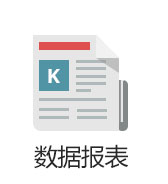
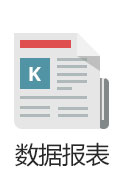
首页

diff --git a/www/template/home.html b/www/template/home.html
@@ -7,19 +7,74 @@
     </div>
 
     <div class="content">
-      <ul>
-        <a href="">
-          <li class="icon fengxian"></li>
+      <li class="icon" ng-if="categorys[1].unread_count>0">
+        <i>{{categorys[1].unread_count}}</i>
+        <a href="#subCategory/{{categorys[1].catid}}" ng-if="categorys[1].sub!=undefined">
+          <img src="../img/fengxian_count.jpg">
         </a>
-        <a href="">
-          <li class="icon shuju"></li>
+        <a href="#list/{{categorys[1].catid}}" ng-if="categorys[1].sub==undefined">
+          <img src="../img/fengxian_count.jpg">
         </a>
-        <a href="">
-          <li class="icon yuqing"></li>
+      </li>
+      <li class="icon" ng-if="categorys[1].unread_count<=0">
+        <a href="#subCategory/{{categorys[1].catid}}" ng-if="categorys[1].sub!=undefined">
+          <img src="../img/fengxian.jpg">
         </a>
-        <a href="">
-          <li class="icon qita"></li>
+        <a href="#list/{{categorys[1].catid}}" ng-if="categorys[1].sub==undefined">
+          <img src="../img/fengxian.jpg">
         </a>
+      </li>
+      <li class="icon" ng-if="categorys[11].unread_count>0">
+        <i>{{categorys[11].unread_count}}</i>
+        <a href="#subCategory/{{categorys[11].catid}}" ng-if="categorys[11].sub!=undefined">
+          <img src="../img/shuju_count.jpg">
+        </a>
+        <a href="#subCategory/{{categorys[11].catid}}" ng-if="categorys[11].sub==undefined">
+          <img src="../img/shuju_count.jpg">
+        </a>
+      </li>
+      <li class="icon" ng-if="categorys[11].unread_count<=0">
+        <a href="#subCategory/{{categorys[11].catid}}" ng-if="categorys[11].sub!=undefined">
+          <img src="../img/shuju.jpg">
+        </a>
+        <a href="#subCategory/{{categorys[11].catid}}" ng-if="categorys[11].sub==undefined">
+          <img src="../img/shuju.jpg">
+        </a>
+      </li>
+      <li class="icon" ng-if="categorys[2].unread_count>0">
+        <i>{{categorys[2].unread_count}}</i>
+        <a href="#subCategory/{{categorys[2].catid}}" ng-if="categorys[2].sub==undefined">
+          <img src="../img/yuqing_count.jpg">
+        </a>
+        <a href="#subCategory/{{categorys[2].catid}}" ng-if="categorys[2].sub!=undefined">
+          <img src="../img/yuqing_count.jpg">
+        </a>
+      </li>
+      <li class="icon" ng-if="categorys[2].unread_count<=0">
+        <a href="#subCategory/{{categorys[2].catid}}" ng-if="categorys[2].sub==undefined">
+          <img src="../img/yuqing.jpg">
+        </a>
+        <a href="#subCategory/{{categorys[2].catid}}" ng-if="categorys[2].sub!=undefined">
+          <img src="../img/yuqing.jpg">
+        </a>
+      </li>
+      <li class="icon" ng-if="categorys[3].unread_count>0">
+        <i>{{categorys[3].unread_count}}</i>
+        <a href="#subCategory/{{categorys[3].catid}}" ng-if="categorys[3].sub==undefined">
+          <img src="../img/qita_count.jpg">
+        </a>
+        <a href="#subCategory/{{categorys[3].catid}}" ng-if="categorys[3].sub!=undefined">
+          <img src="../img/qita_count.jpg">
+        </a>
+      </li>
+      <li class="icon" ng-if="categorys[3].unread_count<=0">
+        <a href="#subCategory/{{categorys[3].catid}}" ng-if="categorys[3].sub==undefined">
+          <img src="../img/qita.jpg">
+        </a>
+        <a href="#subCategory/{{categorys[3].catid}}" ng-if="categorys[3].sub!=undefined">
+          <img src="../img/qita_count.jpg">
+        </a>
+      </li>
       </ul>
     </div>
   </ion-content>

diff --git a/www/js/services.js b/www/js/services.js
@@ -17,74 +17,14 @@ url_users_user = function(id){
   return url_users + "/"+id;
 }
 
-url_users_user_contacts =  function(id){
-  return url_users_user(id) + "/contacts";
-}
-
-url_users_user_jobs = function(id){
-  return url_users_user(id) + "/jobs";
-}
-url_users_user_edus = function(id){
-  return url_users_user(id) + "/edus";
-}
-
-url_users_user_stat = function(id){
-  return url_users_user(id)+"/stat";
-}
-url_users_user_checkEmail = function(id,email){
- return url_users_user(id)+"/checkemail?email="+email;
-}
-
-//Jobs
-var url_jobs = url_base + "/jobs";
-url_jobs_job = function(id){
-  return url_jobs+"/"+id;
-}
-url_jobs_user = function(userId){
-  return url_jobs+"/user"+"/"+userId;
-}
-url_jobs_user_feeds = function(userId,feedsType){
-  return url_jobs+"/user"+"/"+userId+"/"+feedsType;
-}
-
-url_jobs_job_friends_rec = function(userId,jobId){
-  return url_jobs_job(jobId)+"/rec/"+userId;
-}
-
-url_jobs_job_friends_job = function(userId,jobId){
-  return url_jobs_job(jobId)+"/job/"+userId;
-}
-
-url_jobs_job_friends_employ = function(userId,jobId){
-  return url_jobs_job(jobId)+"/employ/"+userId;
-}
-
-url_jobs_job_all_candidates = function(userId,jobId){
-  return url_jobs_job(jobId)+"/candidates/"+userId;
-}
-
-//Candidates
-var url_candidates = url_base+"/candidates";
-var url_candidates_rec = url_candidates+"/rec";
-var url_candidates_job = url_candidates+"/job";
-var url_candidates_employ = url_candidates+"/employ";
 
 
-url_candidates_candidate = function(candidateId){
-  return url_candidates + "/" + candidateId;
-}
-url_candidates_rec_friends = function(userId){
-  return url_candidates_rec + "/" + userId;
-}
-url_candidates_job_friends = function(userId){
-  return url_candidates_job + "/" + userId;
-}
-url_candidates_employ_friends = function(userId){
-  return url_candidates_employ + "/" + userId;
-}
-url_candidates_unread = function(userId){
-  return url_candidates + "/unread/" + userId;
-}
+//news
+var url_news = url_base + "mod=news";
+var url_category_list = url_news + "&action=category";
+var url_news_list = url_news+"&action=list";
+var url_news_view = url_news+"&action=view";
+
 
 angular.module('starter.services', [])
 

diff --git a/www/css/style.css b/www/css/style.css
@@ -58,31 +58,21 @@ font-size: 25px;
 #home .icon{
   width: 50%;
   height: 200px;
-
-}
-#home .content .fengxian{
-  background-image: url("../img/fengxian.jpg");
   float: left;
   border-right: 1px solid #C4C4C4;
   border-bottom: 1px solid #C4C4C4;
+  text-align: center;
+  list-style: none;
 }
-#home .content .shuju{
-  background-image: url("../img/shuju.jpg");
-  float: left;
-  border-right: 1px solid #C4C4C4;
-  border-bottom: 1px solid #C4C4C4;
+#home .icon i{
+  position: absolute;
+  left: 38%;
+  top: 0.7em;
+  color: #fff;
 }
-#home .content .yuqing{
-  background-image: url("../img/yuqing.jpg");
-  float: left;
-  border-right: 1px solid #C4C4C4;
-  border-bottom: 1px solid #C4C4C4;
-}
-#home .content .qita{
-  background-image: url("../img/qita.jpg");
-  border-right: 1px solid #C4C4C4;
-  float: left;
-  border-bottom: 1px solid #C4C4C4;
+#home .icon a{
+  display: block;
+  height: 200px;
 }
 /*----------------------------------logout------------------------------------------------*/
 #logout{

diff --git a/www/js/controllers-home.js b/www/js/controllers-home.js
@@ -1,8 +1,12 @@
 angular.module('starter.controllers')
 
   // -----------------User
-  .controller('homeCtrl', function ($scope,$rootScope, $ionicLoading, $ionicPopup, $timeout,$state,User,$ionicHistory) {
-
+  .controller('homeCtrl', function ($scope,$rootScope, $ionicLoading, $ionicPopup, $timeout,$state,Category,$ionicHistory) {
+    Category.loadCategoryList().then(function (data) {
+      if(data.status){console.log(data.data);
+        $scope.categorys = data.data;
+      }
+    })
 
   })
 

diff --git a/www/index.html b/www/index.html
@@ -27,6 +27,7 @@
     <script src="js/controllers-home.js"></script>
     <script src="js/services.js"></script>
     <script src="js/services-user.js"></script>
+    <script src="js/services-category.js"></script>
   </head>
   <body ng-app="starter"  onbeforeunload="" class="platform-android platform-cordova platform-webview">
 

diff --git a/www/js/services-category.js b/www/js/services-category.js
@@ -1,0 +1,15 @@
+
+
+angular.module('starter.services')
+.factory('Category',function($http){
+
+  return {
+    loadCategoryList : function(){
+      return $http.get(url_category_list).then(function(response){
+        return response.data;
+      })
+    },
+
+  }
+
+});
